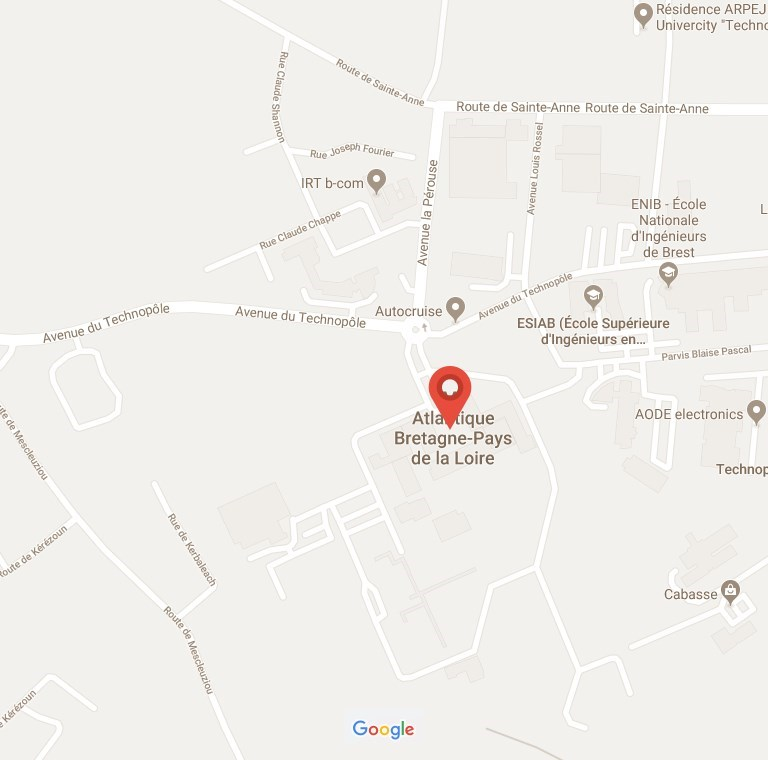
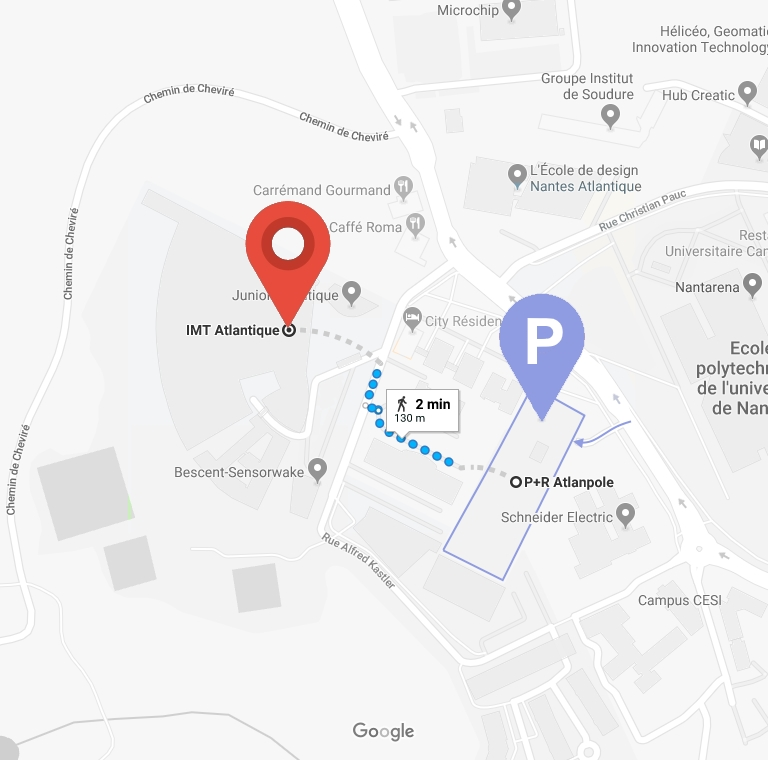
Ajout stationnement sur la carte

diff --git a/src/components/map/index.js b/src/components/map/index.js
@@ -20,7 +20,8 @@ export default class Map extends Component {
 					<p>4, rue Alfred Kastler - La Chantrerie</p>
 					<p>44307 Nantes cedex 3</p>
 					<p>&nbsp;</p>
-					08:30-17:45
+					<p>08:30-17:45</p>
+					<p class={style.parking}>Stationnement au parking+relais tram Atlanpole</p>
 				</div>
 			</section>
 		)

diff --git a/src/components/map/style.css b/src/components/map/style.css
@@ -23,6 +23,10 @@
     font-size: 5em;
   }
 
+  #mapWithCursor .parking {
+    font-weight: bold;
+  }
+
 @media (max-width: 468px) {
   /* Phone */
   #mapWithCursor div.blocknote {
